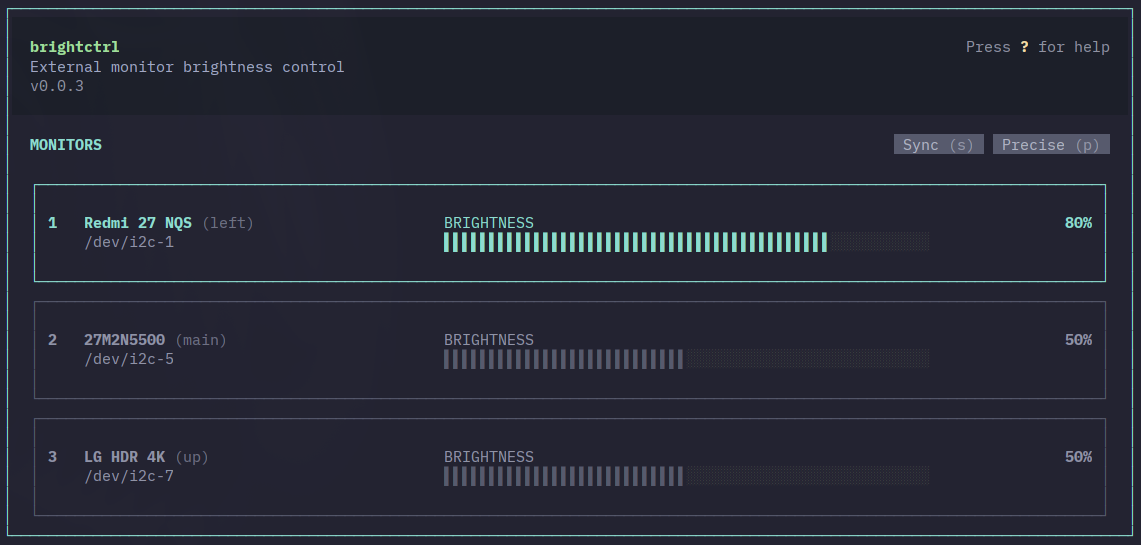
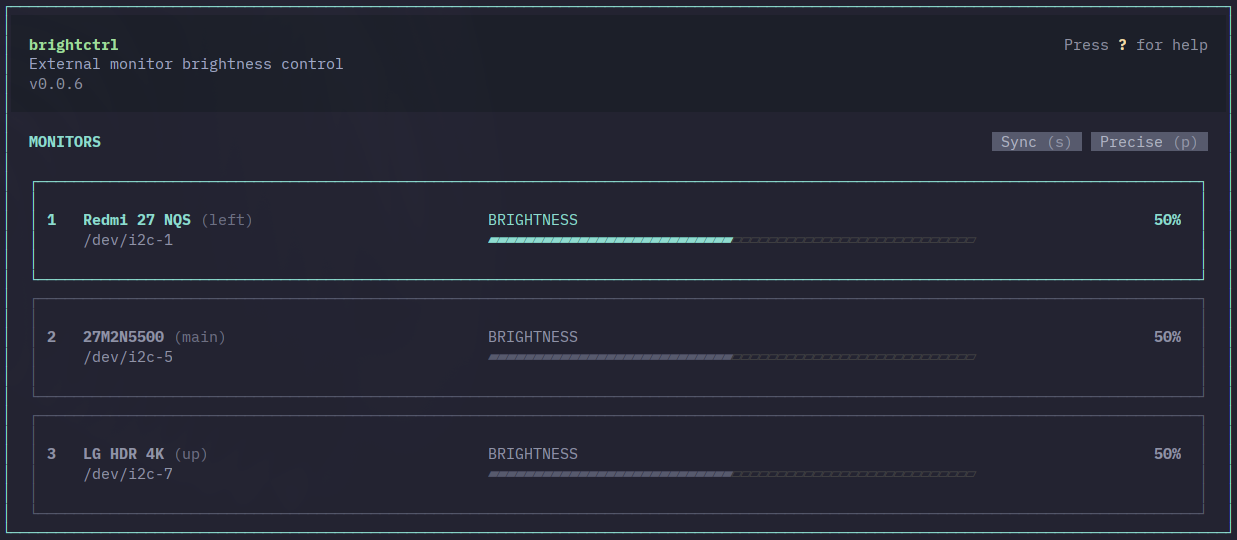
feat: persist sync/precise modes, add reload spinner, dynamic version
Sync and precise mode saved to config.toml across sessions. Reload
spinner next to MONITORS title. Version reads from package.json.

diff --git a/src/context/monitors-context.tsx b/src/context/monitors-context.tsx
@@ -18,6 +18,8 @@ import {
   getConfig,
   readMonitorCache,
   writeMonitorCache,
+  setSyncMode as persistSyncMode,
+  setPreciseMode as persistPreciseMode,
   type BrightCtrlConfig,
 } from "../config"
 import { usePlatform } from "../hooks/use-platform"
@@ -44,10 +46,30 @@ type MonitorsContextValue = {
 const MonitorsContext = createContext<MonitorsContextValue | null>(null)
 
 export function MonitorsProvider({ children }: { children: ReactNode }) {
+  const [config] = useState(getConfig())
   const [monitors, setMonitors] = useState<Monitor[]>([])
   const [selected, setSelected] = useState(0)
-  const [syncMode, setSyncMode] = useState(false)
-  const [preciseMode, setPreciseMode] = useState(false)
+  const [syncMode, setSyncModeState] = useState(config.syncMode)
+  const [preciseMode, setPreciseModeState] = useState(config.preciseMode)
+
+  const setSyncMode = useCallback((n: boolean | ((n: boolean) => boolean)) => {
+    setSyncModeState((prev) => {
+      const next = typeof n === "function" ? n(prev) : n
+      persistSyncMode(next)
+      return next
+    })
+  }, [])
+
+  const setPreciseMode = useCallback(
+    (n: boolean | ((n: boolean) => boolean)) => {
+      setPreciseModeState((prev) => {
+        const next = typeof n === "function" ? n(prev) : n
+        persistPreciseMode(next)
+        return next
+      })
+    },
+    [],
+  )
   const [status, setStatus] = useState("Starting...")
   const [error, setError] = useState<string | null>(null)
   const [loading, setLoading] = useState(true)
@@ -55,7 +77,6 @@ export function MonitorsProvider({ children }: { children: ReactNode }) {
   const debounceTimer = useRef<NodeJS.Timeout | null>(null)
   const pendingRef = useRef<Map<number, number>>(new Map())
   const { os } = usePlatform()
-  const [config] = useState(getConfig())
 
   function scheduleBrightness(index: number, value: number) {
     pendingRef.current.set(index, value)
@@ -63,10 +84,11 @@ export function MonitorsProvider({ children }: { children: ReactNode }) {
     debounceTimer.current = setTimeout(() => {
       const vals = new Map(pendingRef.current)
       pendingRef.current.clear()
-      for (const [idx, v] of vals) {
-        setBrightness(idx, v)
-      }
-    }, 500)
+
+      Promise.all(
+        Array.from(vals.entries()).map(([idx, v]) => setBrightness(idx, v)),
+      )
+    }, 1000)
   }
 
   const step = preciseMode ? 1 : 5

diff --git a/src/config.ts b/src/config.ts
@@ -6,6 +6,8 @@ import type { Monitor } from "./ddcutil"
 
 export type BrightCtrlConfig = {
   aliases: Record<string, string>
+  syncMode: boolean
+  preciseMode: boolean
 }
 
 const CONFIG_DIR = join(homedir(), ".config", "brightctrl")
@@ -14,6 +16,8 @@ const CACHE_PATH = join(CONFIG_DIR, "monitors.json")
 
 const DEFAULT: BrightCtrlConfig = {
   aliases: {},
+  syncMode: false,
+  preciseMode: false,
 }
 
 function ensureConfig(): BrightCtrlConfig {
@@ -28,6 +32,8 @@ function ensureConfig(): BrightCtrlConfig {
 
   return {
     aliases: (parsed.aliases ?? {}) as Record<string, string>,
+    syncMode: parsed.syncMode ?? false,
+    preciseMode: parsed.preciseMode ?? false,
   }
 }
 
@@ -52,6 +58,20 @@ export function setAlias(id: string, alias: string): BrightCtrlConfig {
 export function unsetAlias(id: string): BrightCtrlConfig {
   const config = getConfig()
   delete config.aliases[id]
+  writeFileSync(CONFIG_PATH, stringify(config), "utf-8")
+  return config
+}
+
+export function setSyncMode(value: boolean): BrightCtrlConfig {
+  const config = getConfig()
+  config.syncMode = value
+  writeFileSync(CONFIG_PATH, stringify(config), "utf-8")
+  return config
+}
+
+export function setPreciseMode(value: boolean): BrightCtrlConfig {
+  const config = getConfig()
+  config.preciseMode = value
   writeFileSync(CONFIG_PATH, stringify(config), "utf-8")
   return config
 }

diff --git a/src/pages/home-page.tsx b/src/pages/home-page.tsx
@@ -78,7 +78,11 @@ export function HomePage() {
               ) : (
                 <>
                   {error && (
-                    <Box borderStyle="single" borderColor="red" marginBottom={1}>
+                    <Box
+                      borderStyle="single"
+                      borderColor="red"
+                      marginBottom={1}
+                    >
                       <Text color="red">{error}</Text>
                     </Box>
                   )}

diff --git a/src/components/header.tsx b/src/components/header.tsx
@@ -9,9 +9,7 @@ const Header = () => {
           <Text color="green" bold>
             brightctrl
           </Text>
-          <Text color="white">
-            External monitor brightness control
-          </Text>
+          <Text color="white">External monitor brightness control</Text>
           <Text color="gray">v{pkg.version}</Text>
         </Box>
         <Box justifyContent="flex-end" flexGrow={1}>

diff --git a/src/ddcutil.ts b/src/ddcutil.ts
@@ -31,7 +31,7 @@ export async function checkDdcutil(): Promise<boolean> {
 }
 
 export async function detectMonitors(): Promise<MonitorInfo[]> {
-  const stdout = await ddcutil(["detect", "-v"], 15000)
+  const stdout = await ddcutil(["detect", "--ddc-checks-async-min", "1"], 15000)
   const monitors: MonitorInfo[] = []
   let current: Partial<MonitorInfo> | null = null
   let connector = ""

diff --git a/src/components/monitors-title.tsx b/src/components/monitors-title.tsx
@@ -17,9 +17,7 @@ export function MonitorsTitle() {
   return (
     <Box marginBottom={1} alignItems="center" justifyContent="space-between">
       <Box>
-        {loading && (
-          <Text color="cyan">{SPINNER[frame]}{" "}</Text>
-        )}
+        {loading && <Text color="cyan">{SPINNER[frame]} </Text>}
         <Text color="cyan" bold>
           MONITORS
         </Text>
